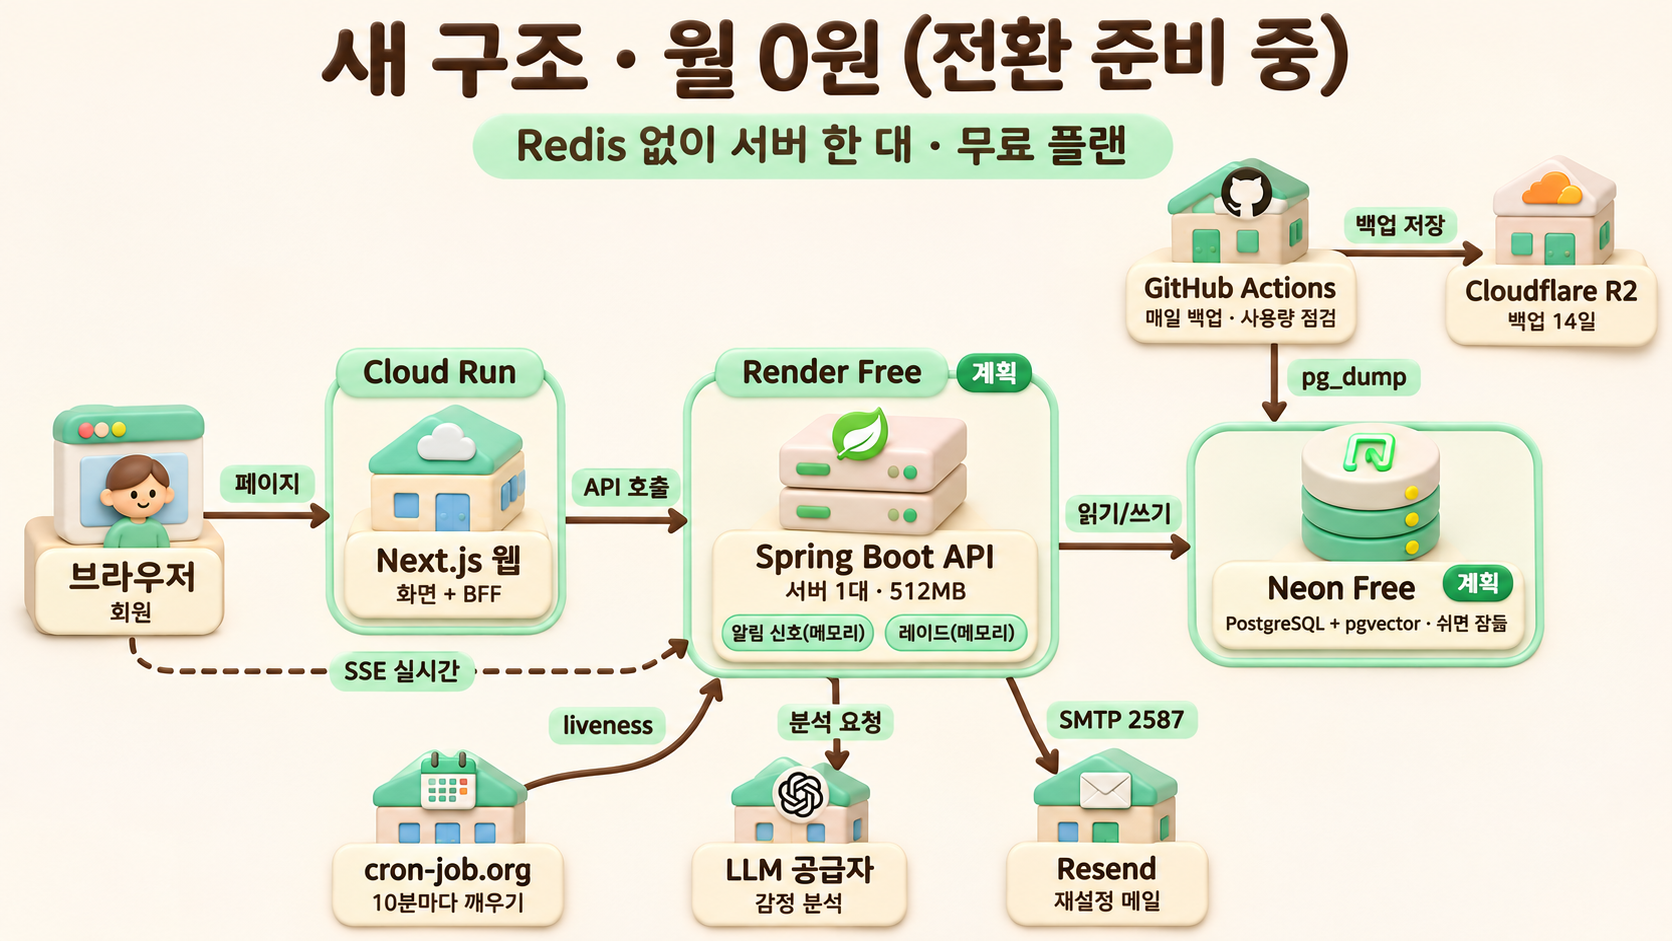
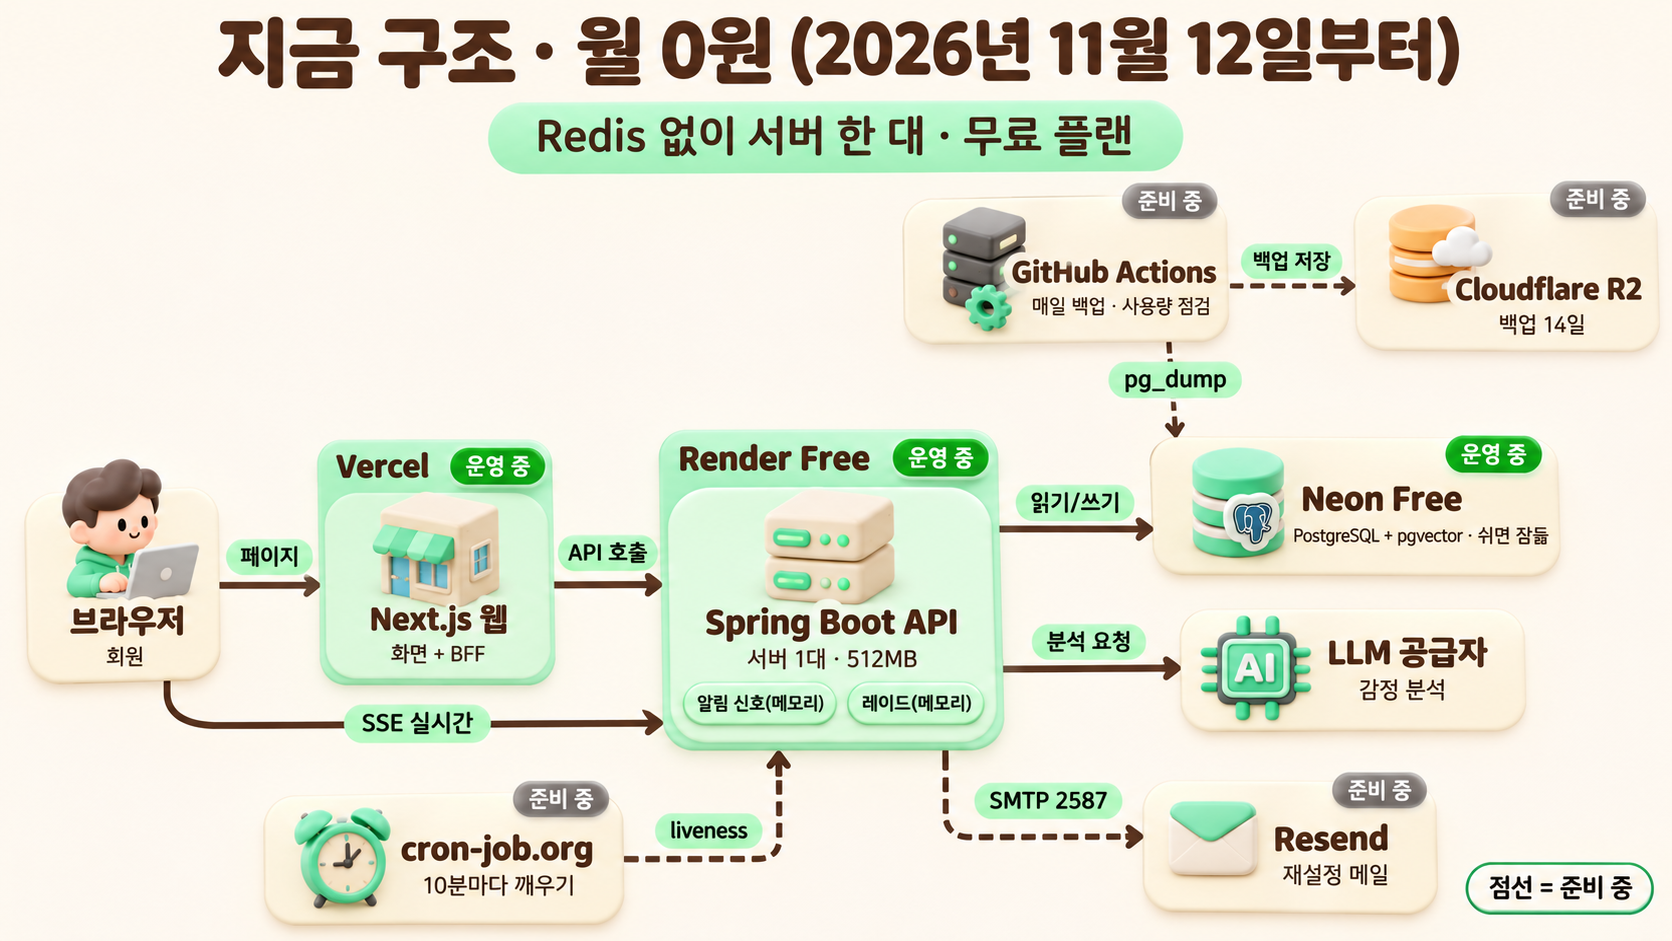
docs: Render와 Neon으로 옮긴 지금 구조와 전환 기록을 남긴다 (018)
- 운영 DB는 옮기지 않고 새 Neon DB로 시작했다. 웹은 이미 Vercel이었고 API 주소만 Render로 바꿨다.
- README의 지금 구조를 Vercel 기준으로 고치고, 구조도에 운영 중과 준비 중을 나눠 표시한다.
- AI 공급자에서 감정 분석과 위험 분류 모델이 응답하지 않는 것을 research에 적는다.

Claude-Session: https://claude.ai/code/session_01KDP3o5Tpp6UsGzZGAxYrTQ

diff --git a/README.md b/README.md
@@ -131,28 +131,28 @@ flowchart LR
 - Redis는 서버가 여러 대일 때를 위해 두었습니다. 알림 신호를 pub/sub으로 다른 서버에 전하고, 레이드 공격 판정을 Lua 스크립트로 한 번에 처리했습니다.
 - 2026년 11월 10일 GCP 결제 계정이 닫히면서 API가 멈췄습니다. 고정비를 0원으로 줄이는 이전을 [018 스펙](specs/018-free-infra/spec.md)으로 진행하고 있습니다.
 
-### 지금: 무료 플랜으로 옮기는 중
+### 지금: 무료 플랜 (2026년 11월 12일부터)
 
 <p align="center">
-  <img src="docs/assets/architecture/after-free.png" alt="새 구조. 브라우저가 Cloud Run의 Next.js 웹을 거쳐 Render Free의 Spring Boot API 한 대를 호출하고, SSE는 API로 바로 연결한다. API는 알림 신호와 레이드 상태를 메모리에 두고 Neon Free의 PostgreSQL을 쓴다. LLM 공급자에 분석을, Resend에 재설정 메일을 보낸다. cron-job.org가 10분마다 깨우고, GitHub Actions가 매일 Neon을 덤프해 Cloudflare R2에 둔다." width="900" />
+  <img src="docs/assets/architecture/after-free.png" alt="지금 구조. 브라우저가 Vercel의 Next.js 웹을 거쳐 Render Free의 Spring Boot API 한 대를 호출하고, SSE는 API로 바로 연결한다. API는 알림 신호와 레이드 상태를 메모리에 두고 Neon Free의 PostgreSQL을 쓰며, LLM 공급자에 분석을 요청한다. 준비 중인 것: cron-job.org의 10분 간격 깨우기, GitHub Actions의 매일 백업(Cloudflare R2), Resend 재설정 메일." width="900" />
 </p>
 
 | 무엇을 | 이전 | 지금 |
 | --- | --- | --- |
-| 웹 | Cloud Run | Cloud Run (그대로) |
+| 웹 | Cloud Run | Vercel (GCP 결제가 멈춘 뒤 옮김) |
 | API | Compute Engine VM, 서버 여러 대 가능 | Render 무료, 서버 한 대(메모리 512MB) |
 | DB | 같은 VM의 PostgreSQL 17 | Neon 무료 PostgreSQL. 쿼리가 5분 없으면 잠든다 |
 | Redis | 알림 신호(pub/sub), 레이드 판정(Lua) | 없음. 둘 다 서버 메모리에서 처리 |
 | 주기 작업 | 1초~1분마다 DB 확인 | 다음 할 일 시각에만 깨어남. DB가 잠들 수 있게 |
-| 백업 | 매일 GCS로 | GitHub Actions가 매일 Cloudflare R2로 |
-| 잠들지 않게 | 해당 없음 | cron-job.org가 10분마다 liveness 호출 |
-| 고정비(AI 사용료 제외) | 월 약 $18 | 월 0원(목표) |
+| 백업 | 매일 GCS로 | GitHub Actions가 매일 Cloudflare R2로 (준비 중) |
+| 잠들지 않게 | 해당 없음 | cron-job.org가 10분마다 liveness 호출 (준비 중) |
+| 고정비(AI 사용료 제외) | 월 약 $18 | 월 0원 |
 
 진행 상황은 이렇습니다.
 
-- **끝남:** 주기 작업을 할 일이 있을 때만 DB를 열게 바꿨습니다. Redis를 지우고 알림과 레이드를 서버 메모리로 옮겼습니다. 레이드는 500명 부하에서 받은 공격 수, 줄어든 HP, DB에 적힌 기여가 정확히 같았습니다.
-- **재 봄:** Render 무료에서 실제로 띄워 봤습니다. 힙을 192MB로 줄이자 50명이 30분 동안 공격하는 부하에서도 메모리가 411~442MB로 한도(512MB) 안에 머물렀습니다. 기동은 약 4분 걸리지만, 배포 중에는 옛 서버가 요청을 받아서 끊기지 않습니다. 50명이 1초마다 쉬지 않고 공격하면 CPU 0.1개로는 응답 p95가 2.6초까지 늘어납니다. 수는 맞습니다([측정 기록](specs/018-free-infra/research.md)).
-- **남음:** 데이터 이전(읽기 전용 점검 한 시간 안), 백업 자동화, 옛 GCP 자원 정리.
+- **옮김:** 2026년 11월 12일 API를 Render, DB를 Neon으로 옮기고 웹(Vercel)이 새 API를 보게 했습니다. 이전 DB는 꺼내지 않고 새 DB로 시작했습니다. 그래서 이전 회원과 글은 넘어오지 않았습니다.
+- **재 봄:** 힙을 192MB로 줄이자 50명이 30분 동안 공격하는 부하에서도 메모리가 411~442MB로 한도(512MB) 안에 머물렀습니다. 기동은 약 4분 걸리지만, 배포 중에는 옛 서버가 요청을 받아서 끊기지 않습니다. 50명이 1초마다 쉬지 않고 공격하면 CPU 0.1개로는 응답 p95가 2.6초까지 늘어납니다. 수는 맞습니다([측정 기록](specs/018-free-infra/research.md)).
+- **남음:** 10분 간격 깨우기, 백업 자동화, 읽기 전용 점검 모드, 옛 GCP 자원 정리.
 
 <br>
 
@@ -193,7 +193,7 @@ flowchart LR
 | 품질 | ktlint, detekt, ESLint, Prettier, steiger(FSD 규칙) |
 | 진행 방식 | GitHub Spec Kit(스펙 → 설계 → 작업 → 구현), OpenAPI 계약 우선 |
 | CI | GitHub Actions(API, 웹, 실제 API를 띄운 e2e), release-please |
-| 배포 | 웹은 Cloud Run(Terraform). API는 Render 무료, DB는 Neon 무료로 옮기는 중(이전: Compute Engine 한 대, Caddy) |
+| 배포 | 웹은 Vercel, API는 Render 무료, DB는 Neon 무료(이전: 웹은 Cloud Run, API와 DB는 Compute Engine 한 대) |
 | 방문 분석 | Umami Cloud. 쿠키를 쓰지 않고, 보내기 전에 주소에서 utm 꼬리표만 남기고 지웁니다 |
 
 <br>
@@ -234,12 +234,12 @@ cd apps/api && SPRING_PROFILES_ACTIVE=local,e2e ./gradlew bootRun
 
 | 무엇을 | 어디에 | 어떻게 |
 | --- | --- | --- |
-| 웹 | [new.5959.site](https://new.5959.site), Cloud Run | `main`에 병합되고 CI가 통과하면 자동으로 배포합니다 |
-| API | Render 무료 웹 서비스(싱가포르, 옮기는 중) | 기동 캐시를 담은 이미지를 `infra/render/scripts/build-image.sh`로 만들어 GHCR에 올리고 배포합니다 |
-| DB | Neon 무료(옮기는 중) | 스키마는 API가 뜰 때 Flyway로 맞춥니다 |
-| 이전 API와 DB | Compute Engine 한 대(Caddy, Spring Boot, PostgreSQL) | 2026년 11월 10일 결제 계정이 닫혀 멈췄습니다. 이전이 끝나면 정리합니다 |
+| 웹 | [new.5959.site](https://new.5959.site), Vercel 프로젝트 `ogu-web` | 지금은 손으로 배포합니다(`vercel deploy --prod`). Cloud Run 자동 배포는 GCP 결제가 멈춰 돌지 않습니다 |
+| API | [ogu-api.onrender.com](https://ogu-api.onrender.com/actuator/health/liveness), Render 무료 웹 서비스(싱가포르) | 기동 캐시를 담은 이미지를 `infra/render/scripts/build-image.sh`로 만들어 GHCR에 올리고 배포합니다 |
+| DB | Neon 무료(싱가포르) | 스키마는 API가 뜰 때 Flyway로 맞춥니다 |
+| 이전 API와 DB | Compute Engine 한 대(Caddy, Spring Boot, PostgreSQL) | 2026년 11월 10일 결제 계정이 닫혀 멈췄습니다. 정리할 차례입니다 |
 
-웹의 기반 자원과 도메인 연결은 Terraform으로 관리합니다. 웹의 주소 하나를 바꾸면 로그인 콜백과 실시간 알림이 허용하는 출처가 함께 바뀝니다. 절차는 [GCP 배포 문서](infra/gcp/README.md)에 있습니다.
+API와 DB의 운영 절차는 [Render와 Neon 문서](infra/render/README.md)에, 옛 GCP 구성은 [GCP 배포 문서](infra/gcp/README.md)에 있습니다.
 
 <br>
 

diff --git a/specs/018-free-infra/research.md b/specs/018-free-infra/research.md
@@ -202,3 +202,20 @@
 
 - VM이 켜져 있는 7일 동안은 지금처럼 비용이 나간다(약 $4). 첫 달 청구액이 0원이 되는 것은 정리를 마친 다음 달부터다. SC-001의 "첫 달"은 정리 다음 달로 읽는다.
 - 되돌릴 때 Neon에서 생긴 탈퇴는 VM에서 이어진다(덤프가 가져간다). 반대로 VM 덤프 뒤에 Neon에 쓴 것은 덤프가 가져가므로 잃지 않는다.
+
+## 전환 기록 (2026-11-12)
+
+계획(R11 읽기 전용 점검, R12 되돌리기)과 다르게 진행했다. GCP 결제 계정이 11월 10일 닫혀 옛 VM과 DB 디스크에 닿을 수 없었고, 저장소 소유자가 옛 DB를 옮기지 않고 새 DB로 시작하기로 정했다.
+
+| 시각(UTC) | 한 일 |
+|---|---|
+| 02:20 | Neon 프로젝트 `ogu`(aws-ap-southeast-1, Postgres 17, DB `ogu`, 역할 `ogu`)를 `neonctl`로 만들었다. 직접 연결 주소를 쓴다 |
+| 02:26 | Render 서비스 `ogu-api`(무료, 싱가포르, 이미지 `5959-api:018-cc3a055`, 기동 캐시 포함)를 `render` CLI로 만들었다. 비밀값은 옛 운영 값(`infra/gcp/secrets`). 카카오 로그인과 메일은 옛 운영처럼 껐다 |
+| 02:30 | 기동 222초. Flyway가 빈 Neon에 V1~V16을 적용했다 |
+| 03:5x | 웹은 이미 Cloud Run이 아니라 Vercel 프로젝트 `ogu-web`(11월 11일 `main`의 이사 안내 #112를 손으로 배포)였다. Cloud Run은 결제가 멈춰 설정을 바꿀 수 없었다(`BILLING_DISABLED`) |
+| 04:0x | Vercel 운영 env: `API_ORIGIN`을 Render 주소로, `GOOGLE_CLIENT_ID`를 넣고(빠져 있었다), `OGU_MAINTENANCE_MODE=false`. 같은 배포를 다시 올렸다 |
+| 04:10 | 웹을 거쳐 가입, 온보딩, 글쓰기, 피드, 레이드 조회와 공격, 알림 표 발급을 확인하고 시험 계정을 탈퇴시켰다 |
+
+- 이전 회원과 글은 넘어오지 않았다. 옛 VM 디스크의 데이터는 결제를 다시 열면 덤프할 수 있다.
+- 02:45에 서비스가 잠들었고(15분 무요청), 다음 첫 요청은 웹에서 504(`API_UNAVAILABLE`)였다. 깨어나는 데 2~5분 걸린다. 10분 간격 깨우기(cron-job.org)가 필요하다.
+- **AI가 응답하지 않는다(이전과 상관없음).** 공급자(NVIDIA)에서 감정 분석 모델 `openai/gpt-oss-20b`가 모델 목록에 없고 호출이 90초 동안 응답하지 않는다. 위험 분류 모델 `nvidia/nemotron-3-super-120b-a12b`는 목록에 있지만 호출이 404다. 임베딩 `nvidia/nemotron-3-embed-1b`는 된다. 글은 "분석 중"에 머물고 재시도가 쌓인다. 키워드 위험 감지는 AI 없이 돈다. 모델을 바꾸려면 위험 분류 평가 문장으로 먼저 재야 한다.

diff --git a/infra/render/README.md b/infra/render/README.md
@@ -1,6 +1,6 @@
 # Render와 Neon 운영 (018)
 
-API는 Render 무료 웹 서비스 한 대(싱가포르, 메모리 512MB, CPU 0.1개)에서, DB는 Neon 무료(싱가포르)에서 돈다. 웹은 그대로 Cloud Run이다([GCP 문서](../gcp/README.md)). 설계와 측정값은 [018 research](../../specs/018-free-infra/research.md)에 있다.
+API는 Render 무료 웹 서비스 한 대(싱가포르, 메모리 512MB, CPU 0.1개)에서, DB는 Neon 무료(싱가포르)에서 돈다. 웹은 Vercel 프로젝트 `ogu-web`이다(2026-11-11부터. 그 전에는 Cloud Run). 웹이 부르는 API 주소는 Vercel 운영 환경 변수 `API_ORIGIN`이다. 설계와 측정값은 [018 research](../../specs/018-free-infra/research.md)에 있다.
 
 ## 1. 계정 준비
 
